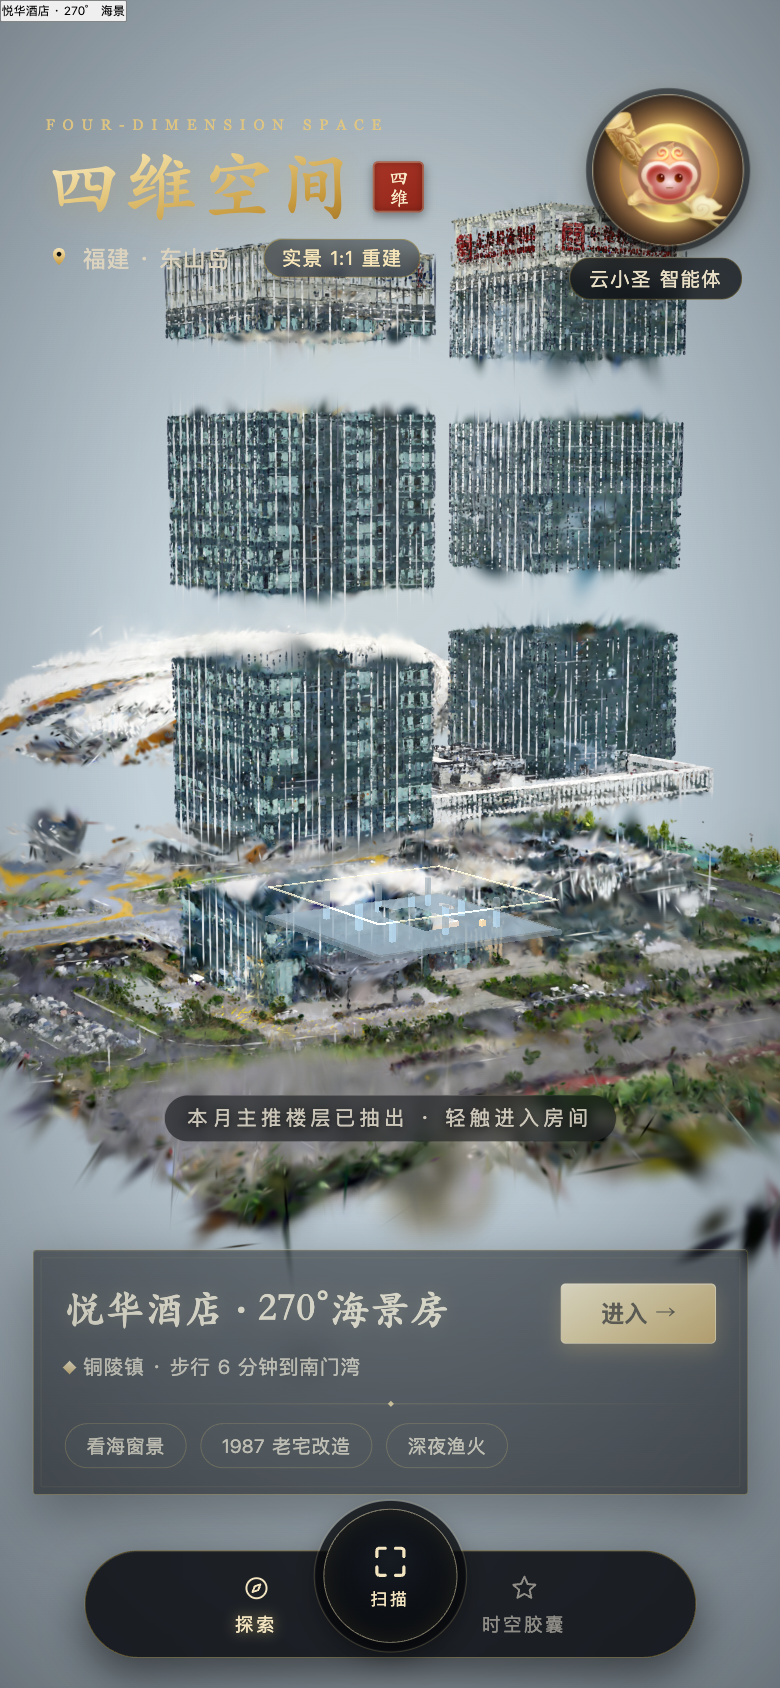
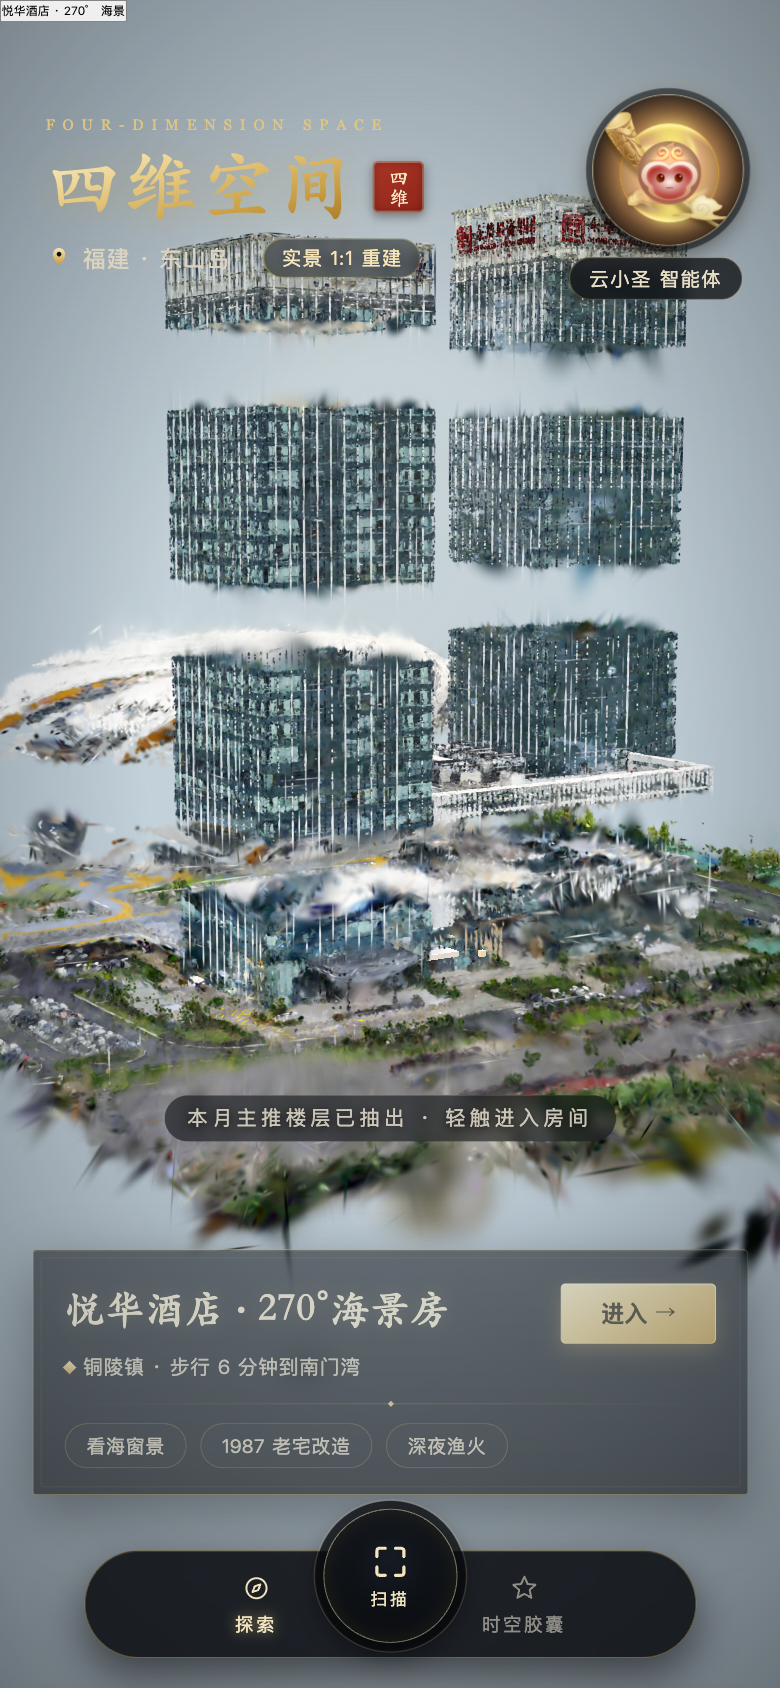
fix: 玻璃楼层改为「从楼里缓缓推出」而非闪进
- 起点回到楼层原位（在点云里），沿箭头方向推出 78m
- 时长 1.3s → 2.4s，缓动改 inOutCubic（起步慢）
- 前 30% 透明度 0→0.62 渐显，消除突然出现

diff --git a/src/engine/pc/PcEngine.ts b/src/engine/pc/PcEngine.ts
@@ -334,7 +334,7 @@ export class PcEngine {
     this.roomEntity = e;
   }
 
-  showRoom(anchor: Vec3, dir: Vec3, dist: number, duration = 1400, ease = 'outBack') {
+  showRoom(anchor: Vec3, dir: Vec3, dist: number, duration = 1400, ease = 'inOutCubic') {
     const e = this.ensureRoom();
     if (!e) return;
     e.enabled = true;
@@ -399,9 +399,21 @@ export class PcEngine {
 
     if (this.roomAnim) {
       const raw = Math.min(1, (now - this.roomAnim.t0) / this.roomAnim.dur);
+      // 缓动：inOutCubic 起步慢（像被缓缓推出来），outBack 只有末段回弹
       const e = this.roomAnim.ease === 'outBack'
         ? 1 + 2.70158 * Math.pow(raw - 1, 3) + 1.70158 * Math.pow(raw - 1, 2)
-        : 1 - Math.pow(1 - raw, 3);
+        : raw < 0.5
+          ? 4 * raw * raw * raw
+          : 1 - Math.pow(-2 * raw + 2, 3) / 2;
+      // 前 30% 淡入，避免「突然出现」
+      if (this.roomEntity?.render?.meshInstances?.length) {
+        const a = Math.min(1, raw / 0.3);
+        for (const mi of this.roomEntity.render.meshInstances) {
+          if (mi.material && 'opacity' in mi.material) {
+            (mi.material as pc.StandardMaterial).opacity = 0.62 * a;
+          }
+        }
+      }
       const { from, to } = this.roomAnim;
       this.roomPos = [
         from[0] + (to[0] - from[0]) * e,

diff --git a/src/pc/boot.ts b/src/pc/boot.ts
@@ -140,8 +140,9 @@ export async function bootPc() {
     window.setTimeout(() => {
       const yaw = engine.camera.yaw;
       // 按箭头方向：朝观众 + 略微向下抽出
+      // 从楼里「缓缓推出」：起点就是楼层原位，2.4s，起步慢、末段轻收
       const dir: [number, number, number] = [Math.sin(yaw) * 0.82, -0.34, Math.cos(yaw) * 0.82];
-      engine.showRoom([TOX, TOY + 6, TOZ], dir, 78, 1300, 'outBack');
+      engine.showRoom([TOX, TOY, TOZ], dir, 78, 2400, 'inOutCubic');
       sfx.latch();
       haptic(14);
     }, 2750);
